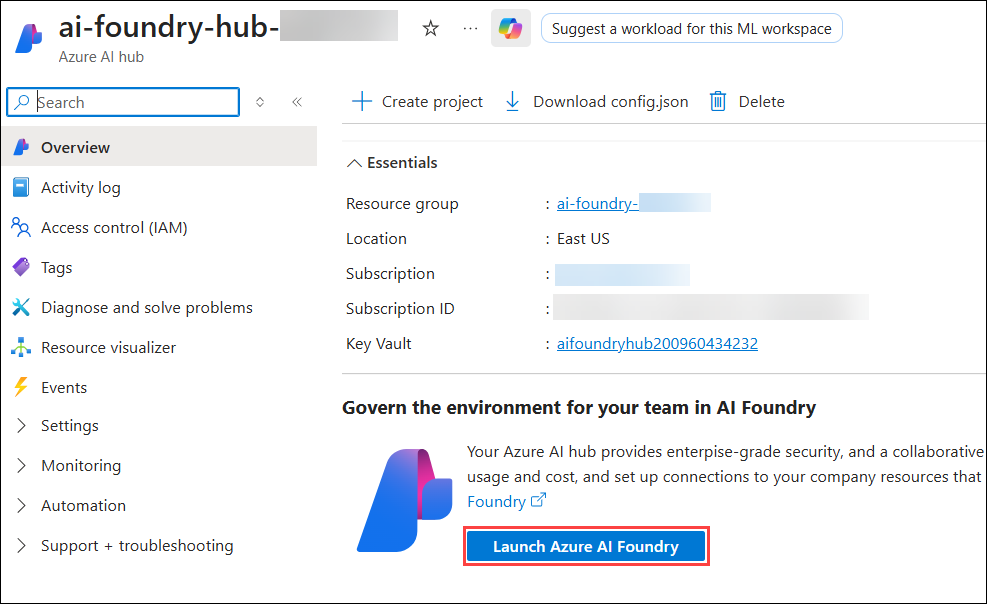
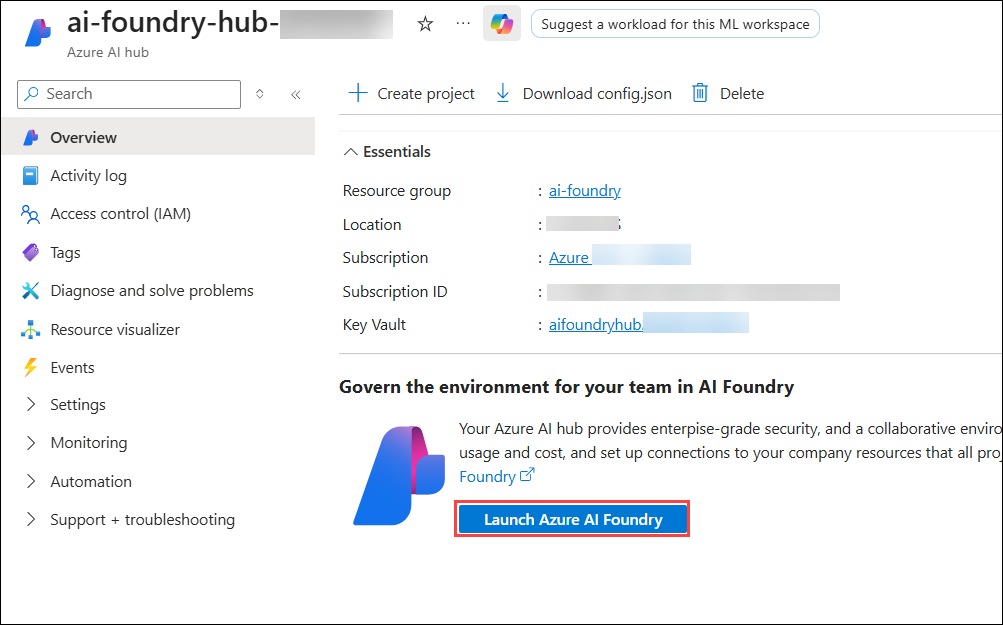
updated

diff --git a/Labs/lab-03.md b/Labs/lab-03.md
@@ -38,8 +38,9 @@ In this task, you will explore different flow types in Microsoft Foundry by crea
 <details>
 <summary><strong>Python</strong></summary>
 
-1. Navigate to `Python>src>plugins` directory, right click on **Plugins** then click on **New file** and then create a new file named **time_plugin.py (1)**.
+1. Navigate to `Python>src>plugins` directory, right click on **Plugins(1)** then click on **New file(2)** and then create a new file named **time_plugin.py**.
 
+    ![](./media/new/E3T2S1.png)
     ![](./media/new/f4.png)
 
 1. Add the following code to the file:
@@ -88,7 +89,7 @@ In this task, you will explore different flow types in Microsoft Foundry by crea
                 return "Invalid date format. Please use YYYY-MM-DD."
     ```
 
-1. Save the file.
+1. Use **Ctrl+S** to save the file.
 
 1. Navigate to `Python>src` directory and open **chat.py** file.
 
@@ -157,7 +158,7 @@ In this task, you will explore different flow types in Microsoft Foundry by crea
 1. Since the AI has the **Time Plugin**, it will be able to provide real-time information, you will get a response similar to the following:
 
     ```
-    The current time is 15:01:27 on December 17, 2025.
+    The current time is 16:34:11 on January 22, 2026.
     ```
 
     ![](./media/new/f9.png)
@@ -167,8 +168,9 @@ In this task, you will explore different flow types in Microsoft Foundry by crea
 <details>
 <summary><strong>C Sharp(C#)</strong></summary>
 
-1. Navigate to `Dotnet>src>BlazorAI>Plugins` directory, right click on **Plugins** then click on **New file** and then  and create a new file named **TimePlugin.cs (1)**.
+1. Navigate to `Dotnet>src>BlazorAI>Plugins` directory, right click on **Plugins(1)** then click on **New file(2)** and then  and create a new file named **TimePlugin.cs**.
 
+    ![](./media/E3T2S1CS.png)
     ![](./media/image_049.png)
 1. Add the following code to the file:
     ```
@@ -273,7 +275,7 @@ In this task, you will explore different flow types in Microsoft Foundry by crea
         }
     }
     ```
-1. Save the file.
+1. Use **Ctrl+S** to save the file.
 
 1. Navigate to `Dotnet>src>BlazorAI>Components>Pages` directory and open **Chat.razor.cs** file.
 
@@ -353,14 +355,18 @@ In this task, you will explore different flow types in Microsoft Foundry by crea
     ```
     dotnet run
     ```
-1. Open a new tab in the browser and navigate to the link for **blazor-aichat**, i.e. **https://localhost:7118/**.
+1. Open a new tab in the browser and navigate to the below link for **blazor-aichat**
+
+    ```
+    https://localhost:7118/
+    ```
 1. Submit the following prompt:
     ```
     What time is it?
     ```
 1. Since the AI has the **Time Plugin**, it will be able to provide real-time information, and you will get a response similar to the following:
     ```
-    The current time is 3:43 PM on January 23, 2025.
+    The current time is 3:43 PM on January 23, 2026.
     ```
 
     ![](./media/new/f3.png)
@@ -373,7 +379,11 @@ In this task, you will explore different flow types in Microsoft Foundry by crea
 
 In this task, you will explore different flow types in Microsoft Foundry by creating and importing the Geocoding Plugin to enable location-based functionality.
 
-1. Open a new tab in the browser, navigate to the [Geocoding API](https://geocode.maps.co/) portal, and click on the **Get API Key** button on the top.
+1. Open a new tab in the browser, navigate to the Geocoding API portal using below link and click on the **Get API Key** button on the top.
+
+    ```
+    https://geocode.maps.co/
+    ```
 
     ![](./media/new/g1.png)
 
@@ -402,7 +412,7 @@ In this task, you will explore different flow types in Microsoft Foundry by crea
 
     ![](./media/new/g5.png)
 
-    >Note:- Ensure that every value in the **.env** file is enclosed in **double quotes (")**.
+    >Note:- Ensure that every value in the **.env** file is enclosed in **double quotes ("")**.
 
 1. Save the file.
 
@@ -523,7 +533,12 @@ In this task, you will explore different flow types in Microsoft Foundry by crea
     dotnet run
     ```
 
-1. Open a new tab in the browser and navigate to the link for **blazor-aichat** i.e **https://localhost:7118/**
+1. Open a new tab in the browser and navigate to the below link for **blazor-aichat**
+
+    ```
+    https://localhost:7118/
+    ```
+
 
 1. Submit the following prompt:
 
@@ -931,7 +946,11 @@ In this task, you will explore different flow types in Microsoft Foundry by crea
     dotnet run
     ```
 
-1. Open a new tab in the browser and navigate to the link for **blazor-aichat**, i.e. **https://localhost:7118/**.
+1. Open a new tab in the browser and navigate to the below link for **blazor-aichat**
+
+    ```
+    https://localhost:7118/
+    ```
 
 1. Submit the following prompt:
 
@@ -939,7 +958,9 @@ In this task, you will explore different flow types in Microsoft Foundry by crea
     What is today's weather in San Francisco?
     ```
     
-1. You will receive a response similar to the one shown below:
+1. You will receive a response similar to the one shown below.
+
+    ![](./media/E3T4S12.png)
 
     ![](./media/image_072.png)
 

diff --git a/Labs/lab-02.md b/Labs/lab-02.md
@@ -39,7 +39,7 @@ In this task, you will explore different flow types in Microsoft Foundry by sett
 
 1. Navigate back to **Microsoft Foundry** portal.
 
-1. From the **Overview (1)** page, copy the **API Key (2)**, select **Azure OpenAI (3)** under Libraries, and copy the **Azure OpenAI endpoint (4)** using the copy icons. And paste it into **Notepad** to be used in the upcoming exercises
+1. From the **Overview (1)** page, select **Azure OpenAI (2)** under Libraries, copy the **API Key (3)** and copy the **Azure OpenAI endpoint (4)** using the copy icons. And paste it into **Notepad** to be used in the upcoming exercises
 
     ![](./media/new/E2T1S6-1401.png)
 
@@ -53,7 +53,7 @@ In this task, you will explore different flow types in Microsoft Foundry by sett
     ![](./media/new/d5.png)
 
 1. Paste **Azure OpenAI Service endpoint** copied earlier in the exercise besides `AZURE_OPENAI_ENDPOINT`.
-    >Note:- Ensure that every value in the **.env** file is enclosed in **double quotes (")**.
+    >Note:- Ensure that every value in the **.env** file is enclosed in **double quotes ("")**.
 1. Paste **API key** copied earlier in the exercise besides `AZURE_OPENAI_API_KEY`.
 
     ![](./media/new/d6.png)
@@ -71,7 +71,7 @@ In this task, you will explore different flow types in Microsoft Foundry by sett
 
 1. Paste **Azure OpenAI Service endpoint** copied earlier in the exercise besides `AOI_ENDPOINT`.
 
-    >**Note**:- Ensure that every value in the **appsettings.json** file is enclosed in **double quotes (")**.
+    >**Note**:- Ensure that every value in the **appsettings.json** file is enclosed in **double quotes ("")**.
 
     >**Note**:- Make sure to remove the "/" from the endpoint.
 
@@ -203,7 +203,7 @@ In this task, you will explore different flow types in Microsoft Foundry by upda
 
     ![](./media/new/e1.png)
 
-1. Add the following code in the `// Your code goes here(Line no. 92)` (1) section of the file.
+1. Add the following code in the `// Your code goes here` in the **Line no. 92** section of the file.
 
     ```
     chatHistory.AddUserMessage(userMessage);
@@ -242,7 +242,11 @@ In this task, you will explore different flow types in Microsoft Foundry by upda
     dotnet run
     ```
     
-1. Open a new tab in the browser and navigate to the link for **blazor-aichat**, i.e. **https://localhost:7118/**.
+1. Open a new tab in the browser and navigate to the below link for **blazor-aichat**
+
+    ```
+    https://localhost:7118/
+    ```
 
     >**Note**: If you receive security warnings in the browser, close the browser and follow the link again.
 

diff --git a/Labs/lab-04.md b/Labs/lab-04.md
@@ -109,12 +109,16 @@ In this task, you will explore different flow types in Microsoft Foundry by crea
 <details>
 <summary><strong>C Sharp(C#)</strong></summary>
 
-1. You can review the OpenAPI spec in the following path `http://localhost:5115/swagger/v1/swagger.json`.
-
+1. You can review the OpenAPI spec in the following path:
+    ```
+    http://localhost:5115/swagger/v1/swagger.json
+    ```
     ![](./media/image_079.png)
 
-1. The swagger page can be found at `http://localhost:5115/swagger/index.html`.
-
+1. The swagger page can be found in the below link 
+    ```
+    http://localhost:5115/swagger/index.html
+    ```
     ![](./media/image_080.png)
 
 1. Navigate to `Dotnet>src>BlazorAI>Components>Pages` directory and open **Chat.razor.cs** file.
@@ -158,7 +162,12 @@ In this task, you will explore different flow types in Microsoft Foundry by crea
     ```
     dotnet run
     ```
-1. Open a new tab in the browser and navigate to the link for **blazor-aichat**, i.e. **https://localhost:7118/**.
+1. Open a new tab in the browser and navigate to the below link for **blazor-aichat**
+
+    ```
+    https://localhost:7118/
+    ```
+
     >**Note**: If you receive security warnings in the browser, close the browser and follow the link again.
 
 1. Submit the following prompt and see how the AI responds:

diff --git a/Labs/lab-01.md b/Labs/lab-01.md
@@ -28,7 +28,7 @@ In this task ,you will create an Azure AI Search resource.
 
     - **Subscription:** Leave the default one **(1)**
 
-    - **Resource group:** Select **ai-foundry-<inject key="Deployment ID" enableCopy="false"></inject> (2)**
+    - **Resource group:** Select **ai-foundry (2)**
 
     - **Service name:** Enter **ai-search-<inject key="Deployment ID" enableCopy="false"></inject> (3)**
 
@@ -60,10 +60,9 @@ In this task, you will explore different flow types in Microsoft Foundry by crea
 
     - **Subscription**: Leave the default one **(1)**
 
-    - **Resource group:** Select **ai-foundry-<inject key="Deployment ID" enableCopy="false"></inject> (2)**
+    - **Resource group:** Select **ai-foundry (2)**
 
     - **Region:** Select **<inject key="Region" enableCopy="false"></inject> (3)**
-        >**Note:** Ensure to select the same region used while creating the Azure AI Search resource.
 
     - **Name:** Enter **ai-foundry-hub-<inject key="Deployment ID" enableCopy="false"></inject> (4)**
 

diff --git a/Labs/lab-07.md b/Labs/lab-07.md
@@ -53,7 +53,7 @@ In this task, you will explore different flow types in Microsoft Foundry by crea
 
     ![](./media/new/s5.png)
 
-    >Note:- Ensure that every value in the **.env** file is enclosed in **double quotes (")**.
+    >Note:- Ensure that every value in the **.env** file is enclosed in **double quotes ("")**.
 
 1. Save the file.
 
@@ -366,7 +366,11 @@ In this task, you will explore different flow types in Microsoft Foundry by crea
     ```
     dotnet run
     ```
-1. Open a new tab in the browser and navigate to the link for **blazor-aichat**, i.e. **https://localhost:7118/**.
+1. Open a new tab in the browser and navigate to the below link for **blazor-aichat**
+
+    ```
+    https://localhost:7118/
+    ```
 
     >**Note**: If you receive security warnings in the browser, close the browser and follow the link again.
 1. Submit the following prompt and see how the AI responds:

diff --git a/Labs/lab-05.md b/Labs/lab-05.md
@@ -138,7 +138,7 @@ In this task, you will explore different flow types in Microsoft Foundry by crea
 
     ![](./media/new/t1.png)
 
-    >Note:- Ensure that every value in the **.env** file is enclosed in **double quotes (")**.
+    >Note:- Ensure that every value in the **.env** file is enclosed in **double quotes ("")**.
 
 1. Save the file.
 
@@ -567,7 +567,11 @@ In this task, you will explore different flow types in Microsoft Foundry by crea
     dotnet run
     ```
 
-1. Open a new tab in the browser and navigate to the link for **blazor-aichat**, i.e. **https://localhost:7118/**.
+1. Open a new tab in the browser and navigate to the below link for **blazor-aichat**
+
+    ```
+    https://localhost:7118/
+    ```
 
 1. Submit the following prompt and see how the AI responds:
 

diff --git a/Labs/lab-08.md b/Labs/lab-08.md
@@ -88,7 +88,11 @@ In this task, you will explore different flow types in Microsoft Foundry by crea
     ```
     dotnet run
     ```
-1. Open a new tab in the browser and navigate to the link for **blazor-aichat**, i.e. **https://localhost:7118/**.
+1. Open a new tab in the browser and navigate to the below link for **blazor-aichat**
+
+    ```
+    https://localhost:7118/
+    ```
 
     >**Note**: If you receive security warnings in the browser, close the browser and follow the link again.
 
